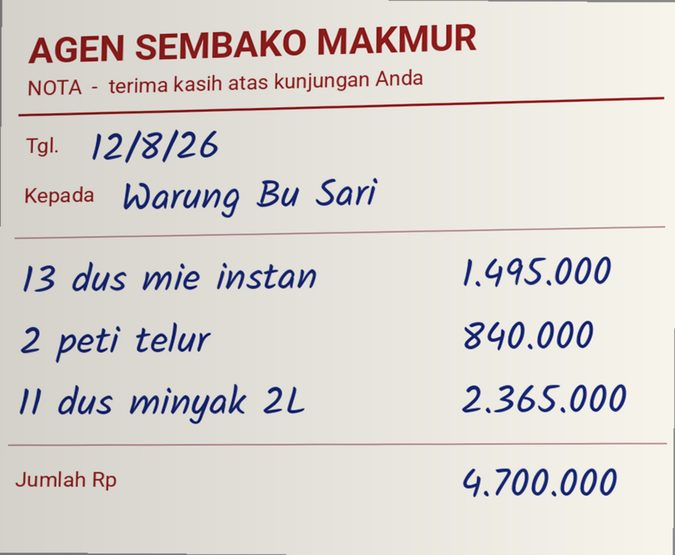
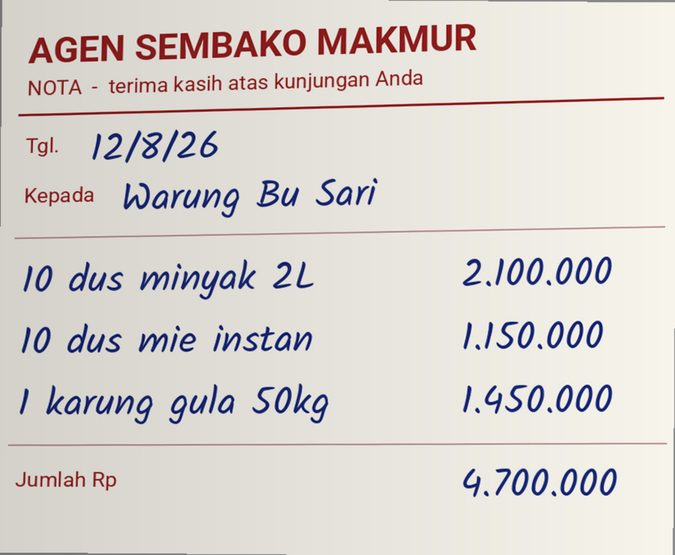
fix(eval): put the goods a notebook line names on its receipt
A receipt for "kulakan minyak" now lists cooking oil, so the sample files don't hand the
verifier a mismatch the generator invented.

diff --git a/eval/synth_evidence.py b/eval/synth_evidence.py
@@ -65,6 +65,15 @@ def catalogue(persona: Persona) -> list[tuple[str, int]]:
     return ITEMS["sembako"]
 
 
+GENERIC_WORDS = {"belanja", "beli", "kulakan", "agen", "pasar", "+"}
+
+
+def goods_named(persona: Persona, line: str) -> list[tuple[str, int]]:
+    """Catalogue items that a notebook purchase line mentions by name."""
+    words = [w for w in line.lower().split() if w not in GENERIC_WORDS]
+    return [item for item in catalogue(persona) if any(w in item[0] for w in words)]
+
+
 # --- What happened, day by day ----------------------------------------------------------------------
 
 
@@ -149,7 +158,10 @@ def render_receipt(rng: random.Random, persona: Persona, purchase: dict, supplie
     """A small handwritten nota on a printed pad, as Indonesian suppliers hand out."""
     total = purchase["amount"]
     items, remaining = [], total
-    choices = rng.sample(catalogue(persona), k=3)
+    # The goods the notebook line names come first ("kulakan minyak" -> oil), then two others.
+    named = goods_named(persona, purchase["word"])
+    others = [item for item in catalogue(persona) if item not in named]
+    choices = (named[:1] + rng.sample(others, k=3))[:3]
     for index, (name, unit) in enumerate(choices):
         if index == len(choices) - 1 or remaining <= unit:
             quantity = max(1, remaining // unit)
